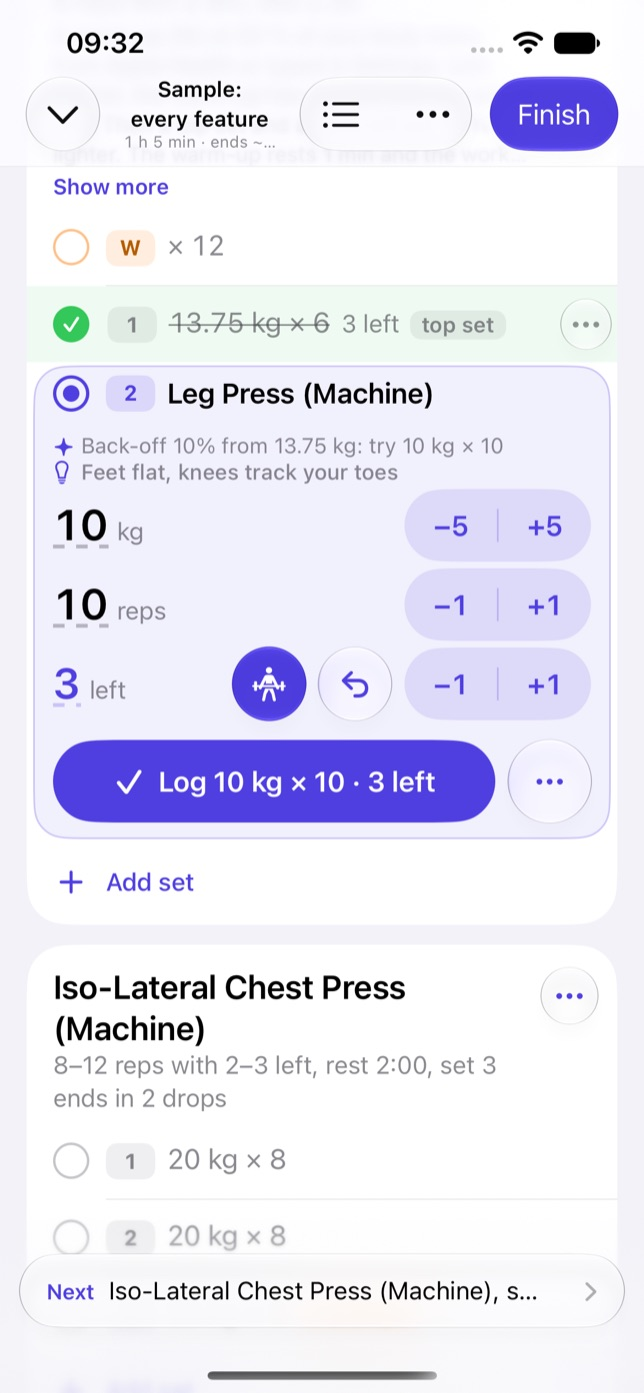
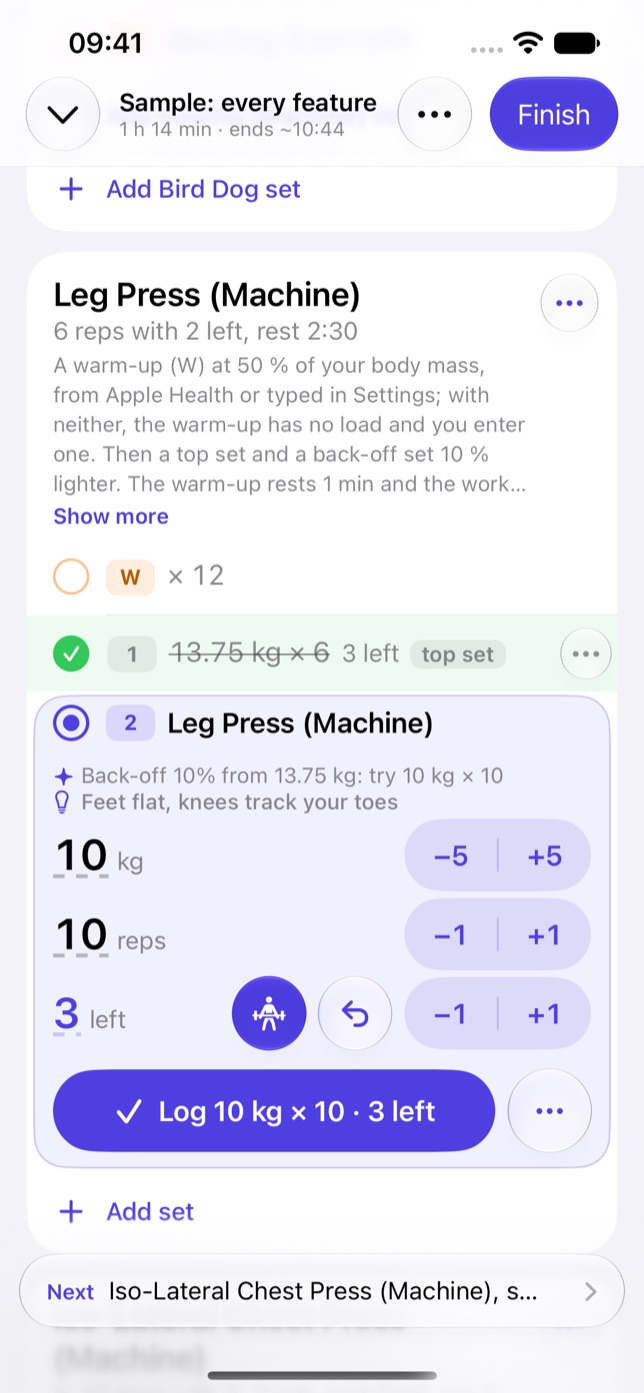
feat(workouts): the session's name is a large title over its length, and the bar keeps one … menu
The name and the clock were squeezed between the bar's buttons, the name on two small lines and the clock cut. Now the name is the navigation bar's large title with the session's length and end time as its subtitle; scrolled, both fold into the bar, the name whole on one line where it fits. The exercises to jump to are the … menu's first item, Go to exercise, so the bar has Minimise, … and Finish alone. Pausing the clock is the … menu's, as it was beside the tap on the title.

diff --git a/apps/workouts/apple/Sources/Views/Session/Rows/RowsSessionView.swift b/apps/workouts/apple/Sources/Views/Session/Rows/RowsSessionView.swift
@@ -243,49 +243,34 @@ struct RowsSessionView: View {
     }
 }
 
-/// The Rows layout's title: the session's name over how long it has run,
-/// to the minute and in grey (`24 min`), so it reads as the session's
-/// length and never as a clock running for the set at hand. A tap pauses or
-/// resumes the session clock (the Table shows the clock in its header).
-struct RowsTitleView: View {
-    let title: String
-    let header: SessionHeaderStats
-    let togglePause: () -> Void
+/// The Rows layout's large title and its subtitle, the session's length,
+/// which the bar keeps once the title folds into it. The system draws both;
+/// the clock is paused and resumed from the `…` menu. The Table keeps its
+/// inline title over its own header.
+struct RowsLargeTitle: ViewModifier {
+    let isOn: Bool
+    let subtitle: String
 
-    var body: some View {
-        Button(action: togglePause) {
-            VStack(spacing: 0) {
-                // The bar's buttons leave the title little room: a name that
-                // does not fit on one line takes two smaller ones, wrapped
-                // between its words, and only then is cut, at its end.
-                ViewThatFits(in: .horizontal) {
-                    Text(title)
-                        .font(.subheadline.weight(.semibold))
-                        .lineLimit(1)
-                    Text(title)
-                        .font(.footnote.weight(.semibold))
-                        .lineLimit(2)
-                        .truncationMode(.tail)
-                        .multilineTextAlignment(.center)
-                        .fixedSize(horizontal: false, vertical: true)
-                }
-                .foregroundStyle(.primary)
-                TimelineView(.periodic(from: header.clockStart, by: 60)) { context in
-                    let end = header.clockPausedAt ?? context.date
-                    let length = Format.sessionLength(Seconds(max(0, end.timeIntervalSince(header.clockStart))))
-                    // The finish time, not a countdown: it stays right while
-                    // the plan holds, and moves when a set or a rest does.
-                    Text(header.isPaused ? "Paused, \(length)" : [length, header.endsText].compactMap { $0 }.joined(separator: " \u{00B7} "))
-                }
-                .font(.footnote.monospacedDigit())
-                .foregroundStyle(header.isPaused ? Color.orange : Color.secondary)
-                .lineLimit(1)
-                .minimumScaleFactor(0.75)
-            }
-            .contentShape(.rect)
+    func body(content: Content) -> some View {
+        if isOn {
+            content
+                .navigationSubtitle(Text(subtitle))
+                .navigationBarTitleDisplayMode(.large)
+        } else {
+            content
+                .navigationBarTitleDisplayMode(.inline)
         }
-        .buttonStyle(.plain)
-        .accessibilityElement(children: .combine)
-        .accessibilityHint(header.isPaused ? "Resumes the session clock" : "Pauses the session clock")
+    }
+}
+
+/// How long the session has run, to the minute, and when it should end:
+/// `24 min · ends ~10:12`, `Paused, 24 min`. The finish time, not a
+/// countdown: it stays right while the plan holds, and moves when a set or
+/// a rest does.
+enum RowsClock {
+    static func text(_ header: SessionHeaderStats, at now: Date) -> String {
+        let end = header.clockPausedAt ?? now
+        let length = Format.sessionLength(Seconds(max(0, end.timeIntervalSince(header.clockStart))))
+        return header.isPaused ? "Paused, \(length)" : [length, header.endsText].compactMap { $0 }.joined(separator: " \u{00B7} ")
     }
 }

diff --git a/apps/workouts/apple/Sources/Views/Session/SessionCover.swift b/apps/workouts/apple/Sources/Views/Session/SessionCover.swift
@@ -18,6 +18,8 @@ struct SessionCover: View {
     /// The last session shown: Save and Discard clear the session before the
     /// cover has closed, and the closing cover keeps drawing it.
     @State private var lastPresentation: SessionPresentation?
+    /// The minute the bar's subtitle reads the session's length at.
+    @State private var clockNow = Date()
 
     /// `rowsScreen` lets a preview open with a fix or the keypad up.
     init(rowsScreen: RowsScreenModel = RowsScreenModel()) {
@@ -138,7 +140,17 @@ struct SessionCover: View {
             }
         }
         .navigationTitle(presentation.title)
-        .navigationBarTitleDisplayMode(.inline)
+        // Rows: the name as a large title over the session's length, folding
+        // into the bar, whole and on one line, as the list scrolls; the bar
+        // keeps its controls alone (owner, 2026-11-06). The Table keeps its
+        // inline title over its own header.
+        .modifier(RowsLargeTitle(isOn: layout == .rows, subtitle: RowsClock.text(presentation.header, at: clockNow)))
+        .task(id: layout) {
+            while !Task.isCancelled {
+                clockNow = Date()
+                try? await Task.sleep(for: .seconds(20))
+            }
+        }
         .toolbar { toolbar(presentation) }
         .toolbar { keyboardToolbar(presentation) }
         .onChange(of: focus) { old, new in focusChanged(from: old, to: new) }
@@ -262,14 +274,6 @@ struct SessionCover: View {
 
     @ToolbarContentBuilder
     private func toolbar(_ presentation: SessionPresentation) -> some ToolbarContent {
-        if layout == .rows {
-            // Rows has no header: the clock sits under the title (§7.6a).
-            ToolbarItem(placement: .principal) {
-                RowsTitleView(title: presentation.title, header: presentation.header) {
-                    session.run(presentation.header.isPaused ? .resumeClock : .pauseClock)
-                }
-            }
-        }
         ToolbarItem(placement: .topBarLeading) {
             Button {
                 focus = nil
@@ -279,22 +283,21 @@ struct SessionCover: View {
             }
             .accessibilityHint("Keeps the session running")
         }
+        // One menu: the exercises to jump to are its first item, so the bar
+        // leaves the title its width (owner, 2026-11-06).
         ToolbarItem(placement: .topBarTrailing) {
             Menu {
-                ForEach(presentation.cards) { card in
-                    Button {
-                        session.scrollTarget = ScrollTarget(slot: card.slot)
-                    } label: {
-                        Text(card.name)
-                        Text(card.progress)
+                Menu("Go to exercise", systemImage: "list.bullet") {
+                    ForEach(presentation.cards) { card in
+                        Button {
+                            session.scrollTarget = ScrollTarget(slot: card.slot)
+                        } label: {
+                            Text(card.name)
+                            Text(card.progress)
+                        }
                     }
                 }
-            } label: {
-                Label("Exercises", systemImage: "list.bullet")
-            }
-        }
-        ToolbarItem(placement: .topBarTrailing) {
-            Menu {
+                Divider()
                 Button("Add exercise", systemImage: "plus") { cover.sheet = .addExercise(after: nil) }
                 Button("Reorder exercises", systemImage: "arrow.up.arrow.down") { cover.sheet = .reorder }
                 Button("Timer…", systemImage: "timer") { cover.sheet = .rest(.timer) }

diff --git a/apps/workouts/DESIGN.md b/apps/workouts/DESIGN.md
@@ -1908,7 +1908,7 @@ A `NavigationStack` inside the `fullScreenCover`, a `ScrollView` with a `LazyVSt
 
 ```text
 +--------------------------------------------------+
-| (v)  Fully Body Collection #1  (≡) (…) [Finish]  |  <- glass toolbar
+| (v)  Fully Body Collection #1      (…) [Finish]  |  <- glass toolbar
 |--------------------------------------------------|
 | Duration         Volume           Working sets   |
 | 14:02            375 kg           3 of 40        |
@@ -1939,9 +1939,9 @@ A `NavigationStack` inside the `fullScreenCover`, a `ScrollView` with a `LazyVSt
 ```
 
 **Toolbar** (system glass): leading "Minimise" (`chevron.down`), which dismisses the cover and keeps the session; the
-title inline; trailing a jump menu (`list.bullet`, the exercises with "2 of 3 done", tapping scrolls to one), a `…` menu
-(Add exercise, Reorder exercises, Timer…, Pause clock or Resume clock, Session note, "Show as rows" or "Show as table",
-Discard session), a
+title inline; trailing one `…` menu (Go to exercise, a submenu of the exercises with "2 of 3 done" where a tap scrolls
+to one; Add exercise, Reorder exercises, Timer…, Pause clock or Resume clock, Session note, "Show as rows" or "Show as
+table", Discard session; the exercises were a button of their own until the owner's 2026-11-06 review), a
 `ToolbarSpacer(.fixed)`, then "Finish" in `.glassProminent` at `ToolbarItemPlacement.topBarPinnedTrailing` with
 `visibilityPriority(.high)`. A quiet banner row under the header says "Alerts are off for the app. Rest ends will not
 notify." with "Settings" when notifications are refused or shown nowhere (Settings also names a missing time-sensitive
@@ -2144,8 +2144,9 @@ the undo offer, whether the open editor is scrolled out of view) and compute no 
 
 ```text
 +--------------------------------------------------+
-| (v)  Day 1 – Strength Foundation    (≡ …) [Finish]|  <- glass toolbar; the session's length and the
-|      12 min · ends about 11:42                    |     time it should end under the title
+| (v)                                  (…) [Finish]|  <- glass toolbar: its controls alone
+| Day 1 – Strength Foundation                      |  <- the large title, folding into the bar on scroll,
+| 12 min · ends about 11:42                        |     the session's length and when it should end under it
 | Leg Press (Machine)                         (…)  |
 | 6–10 reps with 2 left, rest 2:30                 |
 | (✓) Warm-ups 40 kg × 12, 70 kg × 6  as last time |  <- folded once every warm-up is done
@@ -2176,9 +2177,12 @@ the undo offer, whether the open editor is scrolled out of view) and compute no 
 **Structure.** A `ScrollView` with a `LazyVStack` of blocks (16 pt side margins, 12 pt between blocks), the "Alerts
 are off" and "not saving" banners at the top as in §7.6, and "+ Add exercise" at the end. The island sits in a
 `safeAreaBar(edge: .bottom)` with `scrollEdgeEffectStyle(.soft, for: .bottom)`, so the list always scrolls clear of it
-and it never covers the set being edited. Rows has no header row: the toolbar's principal item shows the session's
-title over how long it has run, to the minute and in grey ("24 min"; "Paused, 24 min" in orange), so it reads as the
-session's length and not as a clock running for the set at hand; a tap pauses or resumes it.
+and it never covers the set being edited. Rows has no header row: the session's name is the navigation bar's large
+title, and its subtitle (`navigationSubtitle`) how long the session has run, to the minute, and when it should end
+("24 min · ends about 11:42"; "Paused, 24 min"), so it reads as the session's length and not as a clock running for
+the set at hand. Scrolled, the title folds into the bar, left of the `…`, whole and on one line where it fits, the
+subtitle under it (owner, 2026-11-06; it was a centred title squeezed between the bar's buttons). The `…` menu pauses
+and resumes the clock.
 
 **Blocks.** One card per `RowsBlock` (`secondarySystemGroupedBackground`, corner radius 24, opaque, no shadow):
 

diff --git a/apps/workouts/README.md b/apps/workouts/README.md
@@ -434,11 +434,13 @@ reset and (on reps left) why the set ended as round buttons; the keypad sets
 the field as each key is typed, so Log never takes the old value, with Done
 and Cancel; every other set on one line, with no round headers; every menu's
 button on Liquid Glass, so its menu grows out of it, the open set's `…` beside
-Log; and "Next", on one line, for the set after. They are `docs/screenshots/rows-input-*.jpg`.
+Log; "Next", on one line, for the set after; and the session's name as a large
+title over its length, folding into the bar as the list scrolls. They are
+`docs/screenshots/rows-input-*.jpg`.
 
-| The open set | Typing 12.75 | Why the set ended | A superset |
-| --- | --- | --- | --- |
-| ![Open set](docs/screenshots/rows-input-01-set-open.jpg) | ![Keypad](docs/screenshots/rows-input-02-keypad.jpg) | ![Why stop](docs/screenshots/rows-input-03-why-stop.jpg) | ![Superset](docs/screenshots/rows-input-04-superset.jpg) |
+| The open set | Typing 12.75 | Why the set ended | A superset | The top of the list |
+| --- | --- | --- | --- | --- |
+| ![Open set](docs/screenshots/rows-input-01-set-open.jpg) | ![Keypad](docs/screenshots/rows-input-02-keypad.jpg) | ![Why stop](docs/screenshots/rows-input-03-why-stop.jpg) | ![Superset](docs/screenshots/rows-input-04-superset.jpg) | ![Header](docs/screenshots/rows-input-05-header.jpg) |
 
 A routine's page and its progress after the owner's review of them
 (2026-11-03, iPhone 18 Pro simulator, signed in to a throwaway substrate,
